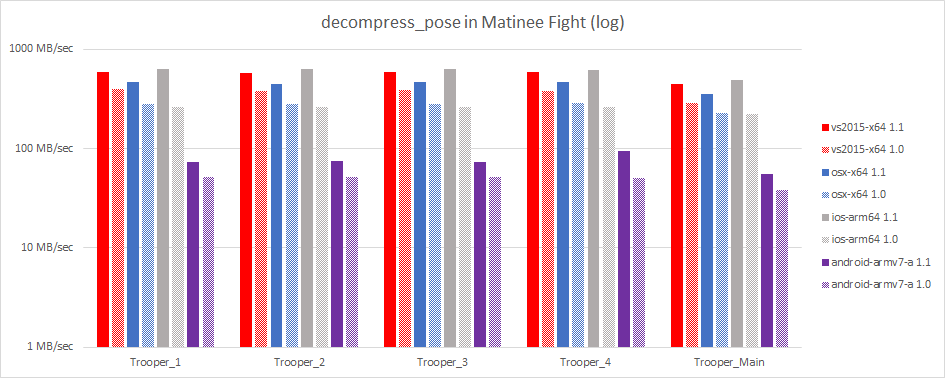
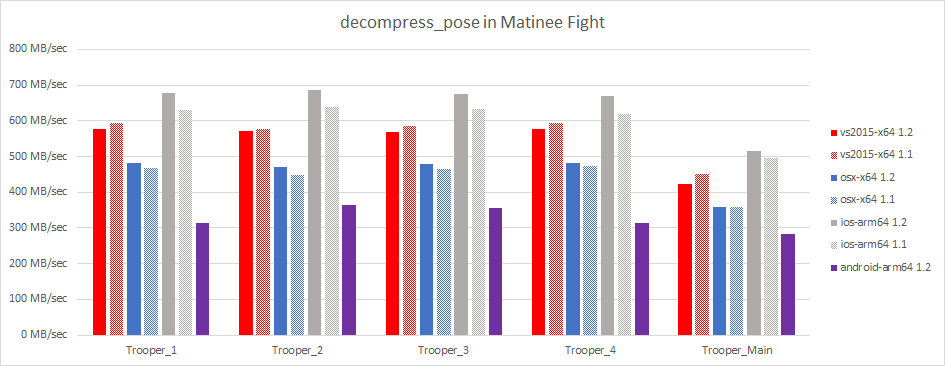
Updating decompression performance stats and graphs.

diff --git a/docs/decompression_performance.md b/docs/decompression_performance.md
@@ -13,12 +13,12 @@ Here are the platforms we measure on:
 
 *  Desktop: Intel i7-6850K @ 3.8 GHz
 *  Laptop: MacBook Pro mid 2014 @ 2.6 GHz
-*  Phone: Android Nexus 5X @ 1.8 GHz
+*  Phone: Android Pixel 3 @ 2.5 GHz
 *  Tablet: iPad Pro 10.5 inch @ 2.39 GHz
 
-We only show a few compilers and architectures to keep the graphs readable. The *Visual Studio 2017* numbers are nearly identical to *Visual Studio 2015* and are omitted for that reason. *GCC 7* lands in between *VS 2015* and *Clang 5* and is omitted. Only *VS 2015* is shown for *x86* because it is generally a bit slower than the *x64* variant for all compilers and it isn't commonly used in games.
+We only show a few compilers and architectures to keep the graphs readable.
 
-**Unless otherwise specified, the results are from release [1.1.0](https://github.com/nfrechette/acl/releases/tag/v1.1.0)**
+**Unless otherwise specified, the results are from release [1.2.0](https://github.com/nfrechette/acl/releases/tag/v1.2.0)**
 
 ## Uniformly sampled algorithm
 
@@ -26,9 +26,9 @@ The uniformly sampled algorithm offers consistent performance regardless of the 
 
 | Clip Name    | Forward   | Backward  | Random    |
 | ------------ | --------- | --------- | --------- |
-| 104_30       | 2.209 us  | 2.208 us  | 2.208 us  |
-| Trooper_1    | 4.084 us  | 4.292 us  | 4.125 us  |
-| Trooper_Main | 40.917 us | 41.625 us | 40.917 us |
+| 104_30       | 2.125 us  | 2.125 us  | 2.166 us  |
+| Trooper_1    | 3.916 us  | 4.083 us  | 3.917 us  |
+| Trooper_Main | 40.000 us | 40.250 us | 40.000 us |
 
 As can be seen, the performance is consistent regardless of the playback direction.
 
@@ -41,9 +41,8 @@ This function decompresses a whole pose in one go. Shown here is forward playbac
 
 Here is the delta with the previous version:
 
-![Uniform decompress_pose CMU Performance Delta](images/acl_decomp_delta_uniform_pose_cmu.png)
 ![Uniform decompress_pose CMU Speed Delta](images/acl_decomp_delta_uniform_pose_cmu_speed.png)
-![Uniform decompress_pose Matinee Performance Delta](images/acl_decomp_delta_uniform_pose_matinee.png)
+
 ![Uniform decompress_pose Matinee Speed Delta](images/acl_decomp_delta_uniform_pose_matinee_speed.png)
 
 ### decompress_bone
@@ -51,11 +50,11 @@ Here is the delta with the previous version:
 This function decompresses a single bone. To generate the graphs, we measure the cost of decompressing a whole pose one bone at a time. Shown here is forward playback with a cold CPU cache.
 
 ![Uniform decompress_bone CMU Performance](images/acl_decomp_uniform_bone_cmu.png)
+
 ![Uniform decompress_bone Matinee Performance](images/acl_decomp_uniform_bone_matinee.png)
 
 Here is the delta with the previous version:
 
-![Uniform decompress_bone CMU Performance Delta](images/acl_decomp_delta_uniform_bone_cmu.png)
 ![Uniform decompress_bone CMU Speed Delta](images/acl_decomp_delta_uniform_bone_cmu_speed.png)
-![Uniform decompress_bone Matinee Performance Delta](images/acl_decomp_delta_uniform_bone_matinee.png)
+
 ![Uniform decompress_bone Matinee Speed Delta](images/acl_decomp_delta_uniform_bone_matinee_speed.png)
